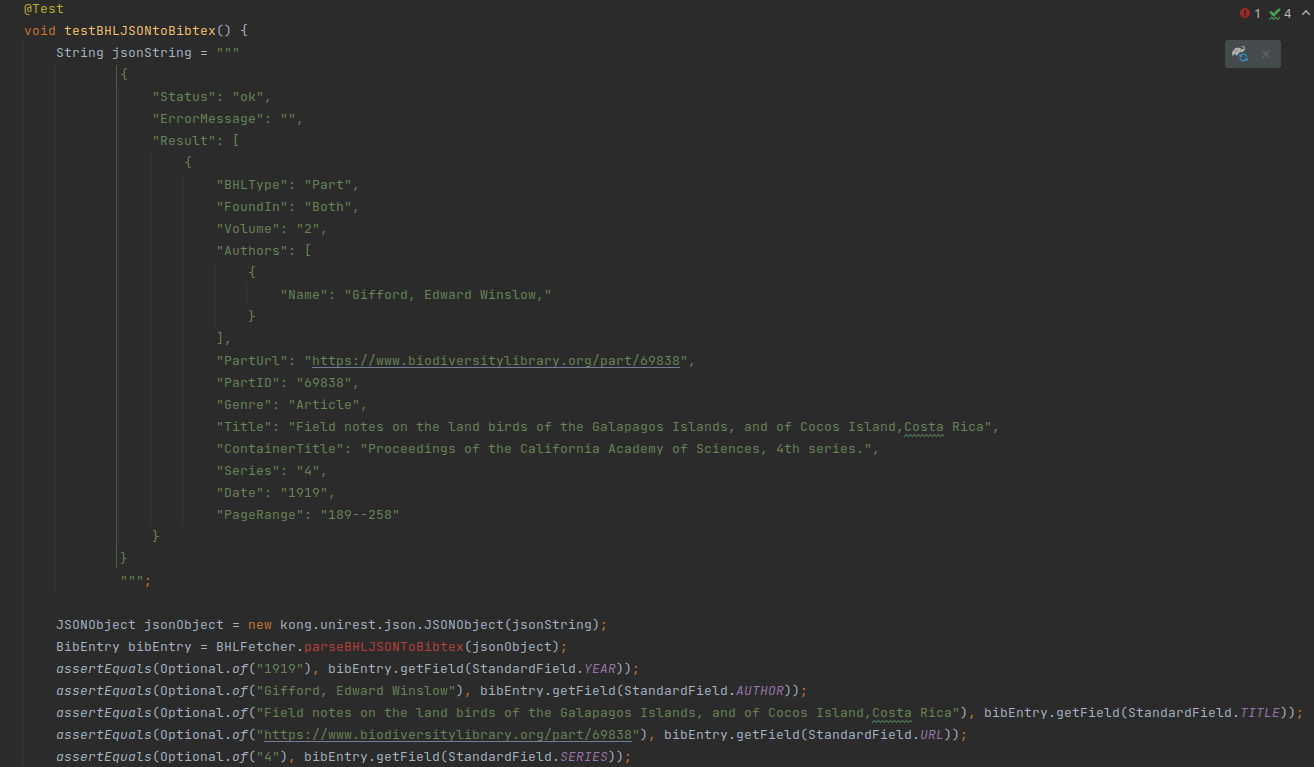
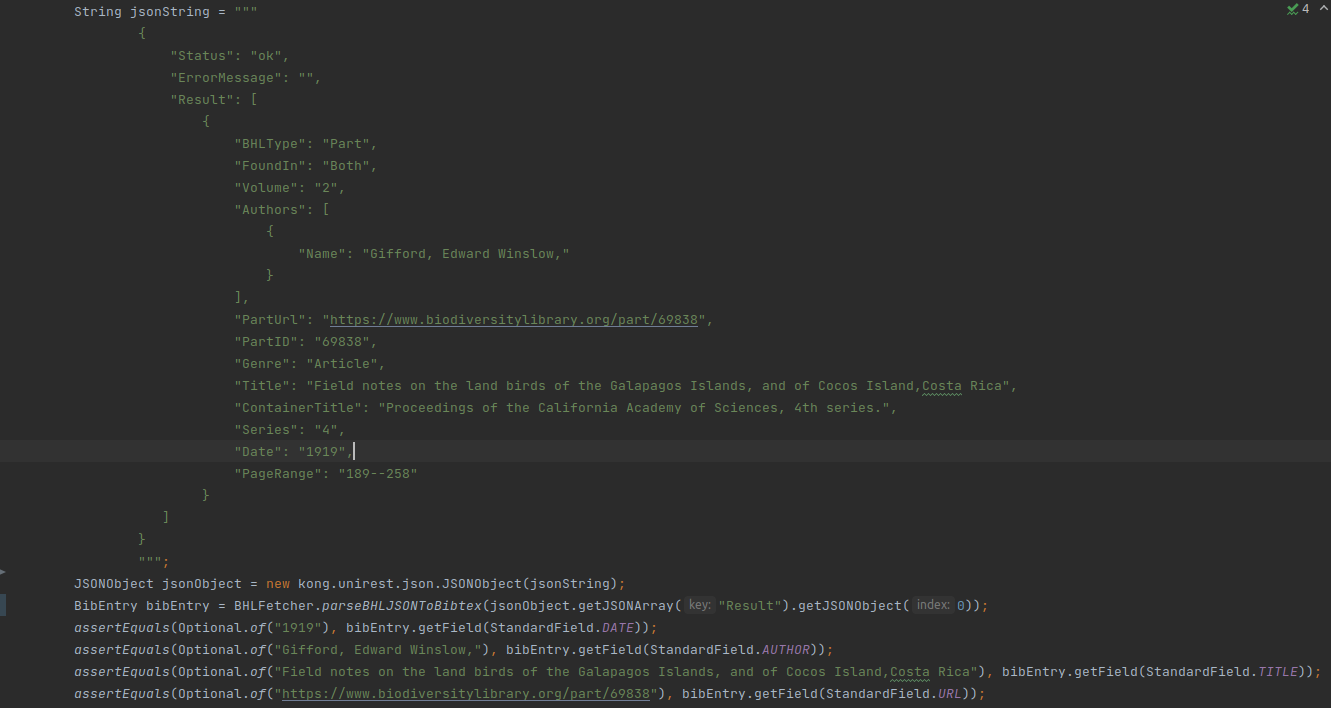
atividade 4

diff --git a/src/mod4-tdd/tdd-atividade-4-final-yudi-yamane.md b/src/mod4-tdd/tdd-atividade-4-final-yudi-yamane.md
@@ -5,7 +5,7 @@ numbersections: true
 
 <!--
 Link da entrega:
-https://aprender3.unb.br/mod/assign/view.php?id=691625
+https://aprender3.unb.br/mod/assign/view.php?id=691622
 
 -->
 
@@ -55,27 +55,27 @@ obter toda a informação que precisa.
 
 # Requisitos
 
-## Básico
+- Deve retornar o nome ao ser invocado o método `.getName()` (importante para o usuário saber
+qual é o banco de dados que vai ser usado para a pesquisa)
+- Deve fazer o parse da resposta JSON que API devolve.
+- Deve utilizar a URL correta para fazer a pesquisa.
 
-- Deve retornar o nome ao ser invocado o método `.getName()`
+# Usando o TDD
 
-## Autenticação
+A prática do TDD foi semelhante à prática apresentada no capítulo 3 do livro 
+_Test-Driven Java Development_. 
 
-- Deve lançar uma exceção se a chave de API for inválida.
-- Deve lançar uma exceção se a chave de API tiver permissão o suficiente para o 
-método.
+- Escrever a especificação da funcionalidade no código
+de teste
+- Executar testes pra verificar que não há falso positivo
+- Implementar funcionalidade (diferente do livro, não segui muito a proposta do
+implementar apenas o necessário para passar)
+- Executar testes novamente para verificar o funcionamento correto.
+- Refatorar código (fiz isso apenas algumas vezes)
 
-## Pesquisa
-
-- Deve lançar uma exceção se o método escolhido não existir.
-- Deve retornar os BibEntries para uma determinada pesquisa de publicações
-com o método `PublicationSearch` da API através de `searchterm`s.
-- Deve retornar BibEntry dado o ID de uma publicação.
-
-## Observações
-
-Até a próxima entrega serão adicionados mais requisitos. Vai ser possível 
-entender melhor como funciona a API e seus mecanismos de pesquisa.
+O jogo rápido de ping pong mencionado no livro não transpareceu durante a realização
+dessa atividade.  Eu tinha wue ficar alternando entre os arquivos do projeto para
+entender o que eu devia fazer.
 
 # Execução do TDD
 
@@ -102,7 +102,7 @@ public class BHLFetcher implements SearchBasedParserFetcher {
 
 ### Vermelho
 
-Rodar os testes dão geram um erro de compilação, como mostrado na figura \ref{fig:tdd-p2-c1-red-1}:
+Rodar os testes gera um erro de compilação, como mostrado na figura \ref{fig:tdd-p2-c1-red-1}:
 
 ![Ciclo 1, vermelho\label{fig:tdd-p2-c1-red-1}](./tdd-p2-c1-red-1.png){ width=600 }
 
@@ -167,13 +167,9 @@ public class BHLFetcher implements SearchBasedParserFetcher {
 Rodando os testes agora passamos para a fase verde. Como o código até o momento
 é muito simples, não é necessária refatoração ou limpeza.
 
-Testar se o método `getURI<alguma-coisa>` retorna algo do tipo:
-
-    https://www.biodiversitylibrary.org/api3?op=<method>...&apikey=<key+value>&format=json
-
 ## Ciclo 2
 
-Requisito de pesquisa.
+Requisito de pesquisa
 
 ### Especificação do teste
 
@@ -185,7 +181,7 @@ Rodar os testes resulta em
 
 ![Ciclo 2, vermelho\label{fig:tdd-p2-c2-red-1}](./tdd-p2-c2-red-1.png){ width=600 }
 
-A `url` retornada na linha xx da figura \ref{fig:tdd-p2-c2-red-1} é nula porque 
+A `url` retornada na linha 35 da figura \ref{fig:tdd-p2-c2-red-1} é nula porque 
 o método ainda não foi implementado.
 
 ### Verde
@@ -264,16 +260,11 @@ Para corrigir isso, vamos acrecentar o seguinte código.
 
 
 ```java
-public static BibEntry parseBHLJSONToBibtex(JSONObject jsonObject) {
+public static BibEntry parseBHLJSONToBibtex(JSONObject bhlJSONResult) {
   BibEntry bibEntry = new BibEntry();
 
-  if (jsonObject.has("Result")) {
-    JSONArray results = jsonObject.getJSONArray("Result");
-    for (int i = 0; i < results.length(); i++) {
-      if (results.getJSONObject(i).has("Date")) {
-        bibEntry.setField(StandardField.DATE, results.getJSONObject(i).getString("Date"));
-      }
-    }
+  if (bhlJSONResult.has("Date")) {
+    bibEntry.setField(StandardField.DATE, bhlJSONResult.getString("Date"));
   }
   return bibEntry;
 }
@@ -290,84 +281,144 @@ Aparentemente, o campo da data foi extraído corretamente. Agora a próxima asse
 do autor é que está falhando. O método foi modificado assim:
 
 ```java
-public static BibEntry parseBHLJSONToBibtex(JSONObject jsonObject) {
+public static BibEntry parseBHLJSONToBibtex(JSONObject bhlJSONResult) {
   BibEntry bibEntry = new BibEntry();
 
-  if (jsonObject.has("Result")) {
-    JSONArray results = jsonObject.getJSONArray("Result");
-    for (int i = 0; i < results.length(); i++) {
-      if (results.getJSONObject(i).has("Date")) {
-        bibEntry.setField(StandardField.DATE, results.getJSONObject(i).getString("Date"));
-      }
-      if (results.getJSONObject(i).has("Authors")) {
-        JSONArray authors = results.getJSONObject(i).getJSONArray("Authors");
-        List<String> authorsList = new ArrayList<>();
-        for (int j = 0; j < authors.length(); j++) {
-          if (authors.getJSONObject(j).has("Name")) {
-            authorsList.add(authors.getJSONObject(i).getString("Name"));
-          } else {
-            LOGGER.info("Empty author name.");
-          }
-        }
-        bibEntry.setField(StandardField.AUTHOR, String.join(" and ", authorsList));
+  if (bhlJSONResult.has("Date")) {
+    bibEntry.setField(StandardField.DATE, bhlJSONResult.getString("Date"));
+  }
+  if (bhlJSONResult.has("Authors")) {
+    JSONArray authors = bhlJSONResult.getJSONArray("Authors");
+    List<String> authorsList = new ArrayList<>();
+    for (int j = 0; j < authors.length(); j++) {
+      if (authors.getJSONObject(j).has("Name")) {
+        authorsList.add(authors.getJSONObject(j).getString("Name"));
       } else {
-        LOGGER.info("No author found.");
+        LOGGER.info("Empty author name.");
       }
     }
+    bibEntry.setField(StandardField.AUTHOR, String.join(" and ", authorsList));
+  } else {
+    LOGGER.info("No author found.");
   }
   return bibEntry;
 }
 ```
 
 O que mudou foi a verificação por um campo `"Authors"` na 
-linha `if (results.getJSONObject(i).has("Authors")`.
+linha `if (bhlJSONResult.has("Authors")`.
 
 Rodar os testes novamente resulta em outro erro:
 
 ![Ciclo 3, vermelho 4\label{fig:tdd-p2-c3-red-4}](./tdd-p2-c3-red-4.png){ width=600 }
 
 O erro agora é sobre campo título. Vamos repetir esse processo para 
-todos os campos restantes. O seguinte código faz os testees passarem.
+todos os campos restantes. 
+
+### Verde
+O seguinte código faz os testes passarem.
 
 ```java
-public static BibEntry parseBHLJSONToBibtex(JSONObject jsonObject) {
+public static BibEntry parseBHLJSONToBibtex(JSONObject bhlJSONResult) {
   BibEntry bibEntry = new BibEntry();
 
-  if (jsonObject.has("Result")) {
-    JSONArray results = jsonObject.getJSONArray("Result");
-    for (int i = 0; i < results.length(); i++) {
-      if (results.getJSONObject(i).has("Date")) {
-        bibEntry.setField(StandardField.DATE, results.getJSONObject(i).getString("Date"));
-      }
-      if (results.getJSONObject(i).has("Authors")) {
-        JSONArray authors = results.getJSONObject(i).getJSONArray("Authors");
-        List<String> authorsList = new ArrayList<>();
-        for (int j = 0; j < authors.length(); j++) {
-          if (authors.getJSONObject(j).has("Name")) {
-            authorsList.add(authors.getJSONObject(i).getString("Name"));
-          } else {
-            LOGGER.info("Empty author name.");
-          }
-        }
-        bibEntry.setField(StandardField.AUTHOR, String.join(" and ", authorsList));
+  if (bhlJSONResult.has("Date")) {
+    bibEntry.setField(StandardField.DATE, bhlJSONResult.getString("Date"));
+  }
+  if (bhlJSONResult.has("Authors")) {
+    JSONArray authors = bhlJSONResult.getJSONArray("Authors");
+    List<String> authorsList = new ArrayList<>();
+    for (int j = 0; j < authors.length(); j++) {
+      if (authors.getJSONObject(j).has("Name")) {
+        authorsList.add(authors.getJSONObject(i).getString("Name"));
       } else {
-        LOGGER.info("No author found.");
-      }
-      if (results.getJSONObject(i).has("Title")) {
-          bibEntry.setField(StandardField.TITLE, results.getJSONObject(i).getString("Title"));
-      }
-      if (results.getJSONObject(i).has("PartUrl")) {
-          bibEntry.setField(StandardField.URL, results.getJSONObject(i).getString("PartUrl"));
-      }
-      if (results.getJSONObject(i).has("Series")) {
-          bibEntry.setField(StandardField.SERIES, results.getJSONObject(i).getString("Series"));
-      }
-      if (results.getJSONObject(i).has("Volume")) {
-          bibEntry.setField(StandardField.VOLUME, results.getJSONObject(i).getString("Volume"));
+        LOGGER.info("Empty author name.");
       }
     }
+    bibEntry.setField(StandardField.AUTHOR, String.join(" and ", authorsList));
+  } else {
+    LOGGER.info("No author found.");
+  }
+  if (bhlJSONResult.has("Title")) {
+    bibEntry.setField(StandardField.TITLE, bhlJSONResult.getString("Title"));
+  }
+  if (bhlJSONResult.has("PartUrl")) {
+    bibEntry.setField(StandardField.URL, bhlJSONResult.getString("PartUrl"));
+  }
+  if (bhlJSONResult.has("Series")) {
+    bibEntry.setField(StandardField.SERIES, bhlJSONResult.getString("Series"));
+  }
+  if (bhlJSONResult.has("Volume")) {
+    bibEntry.setField(StandardField.VOLUME, bhlJSONResult.getString("Volume"));
   }
   return bibEntry;
 }
 ```
 
+### Refatoração
+
+As extrações dos campos de data, URL, volume, série e título são muito similares.
+Podemos colocar os campos em um mapa que mapeia de `Field` para uma `String` do
+JSON.
+
+```java
+public static BibEntry parseBHLJSONToBibtex(JSONObject jsonObject) {
+  BibEntry bibEntry = new BibEntry();
+  Map<Field, String> fieldToBHL = new HashMap<>();
+  fieldToBHL.put(StandardField.DATE, "Date");
+  fieldToBHL.put(StandardField.VOLUME, "Volume");
+  fieldToBHL.put(StandardField.TITLE, "Title");
+  fieldToBHL.put(StandardField.SERIES, "Series");
+  fieldToBHL.put(StandardField.URL, "PartUrl");
+
+  if (bhlJSONResult.has("Authors")) {
+    JSONArray authors = bhlJSONResult.getJSONArray("Authors");
+    List<String> authorsList = new ArrayList<>();
+    for (int j = 0; j < authors.length(); j++) {
+      if (authors.getJSONObject(j).has("Name")) {
+        authorsList.add(authors.getJSONObject(i).getString("Name"));
+      } else {
+        LOGGER.info("Empty author name.");
+      }
+    }
+    bibEntry.setField(StandardField.AUTHOR, String.join(" and ", authorsList));
+  } else {
+    LOGGER.info("No author found.");
+  }
+
+  for (var entry : fieldToBHL.entrySet()) {
+    Field field = entry.getKey();
+    String bhlName = entry.getValue();
+    if (bhlJSONResult.has(bhlName)) {
+      String text = bhlJSONResult.getString(bhlName);
+      if (!text.isEmpty()) {
+        bibEntry.setField(field, text);
+      }
+    }
+  }
+
+  return bibEntry;
+}
+```
+
+E os testes continuam passando. A vantagem de fazer assim é que se for necessário
+extrair mais um campo do JSON só precisamos adicionar no mapa `fieldToBHL` o tipo
+de campo Bib e a string que aparece no JSON.
+
+![Ciclo 3, verde](./tdd-final-verde.png){ width=600 }
+
+[Código de teste](https://github.com/yudi-azvd/jabref/blob/add-biodiversity-library/src/test/java/org/jabref/logic/importer/fetcher/BHLFetcherTest.java).
+
+[Código fonte](https://github.com/yudi-azvd/jabref/blob/add-biodiversity-library/src/main/java/org/jabref/logic/importer/fetcher/BHLFetcher.java).
+
+
+# Trabalhos futuros
+
+(nas férias quem sabe)
+
+- Deve retornar BibEntry dado o ID de uma publicação.
+- Deve retornar os BibEntries para uma determinada pesquisa de publicações
+com o método `PublicationSearch` da API através de `searchterm`s.
+- Fazer funcionar de ponta a ponta, com interação com a interface
+gráfica. Eu tentei brevemente, mas dá um erro de SSL no download 
+das informações.
